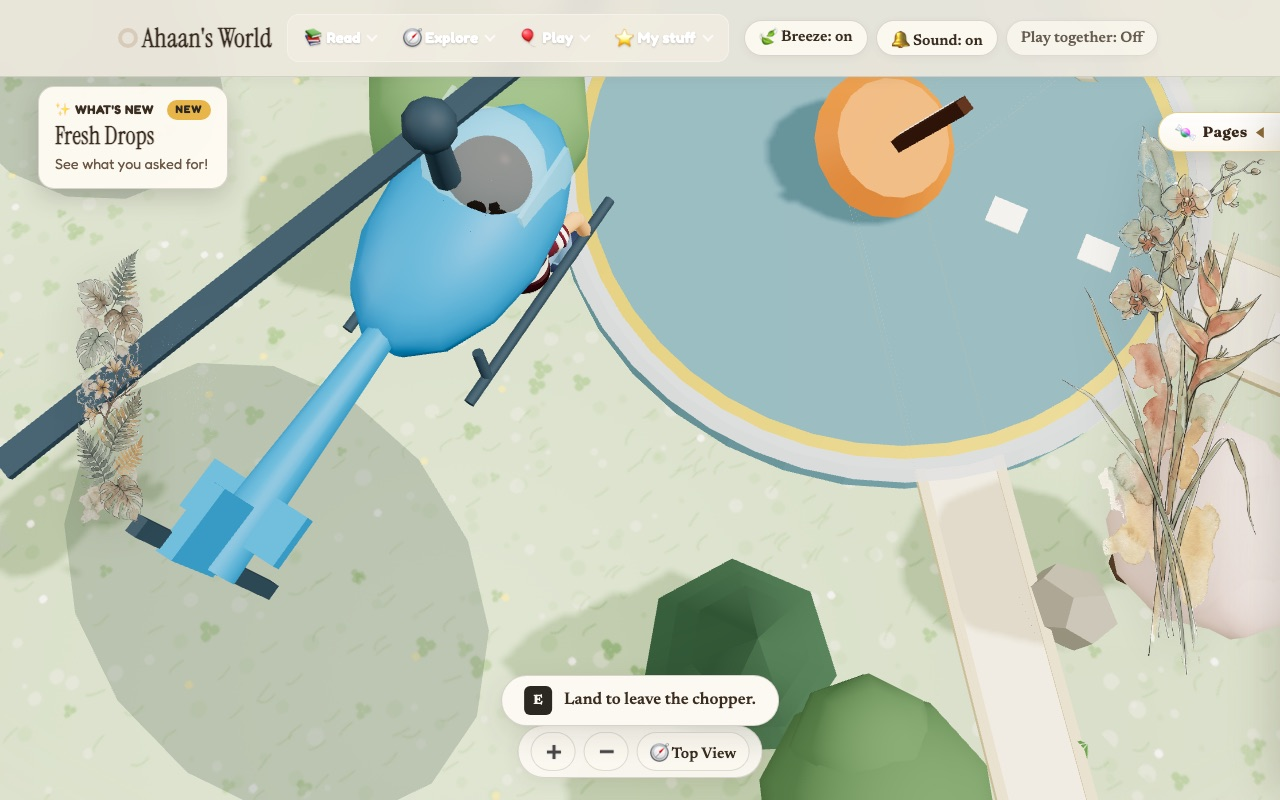
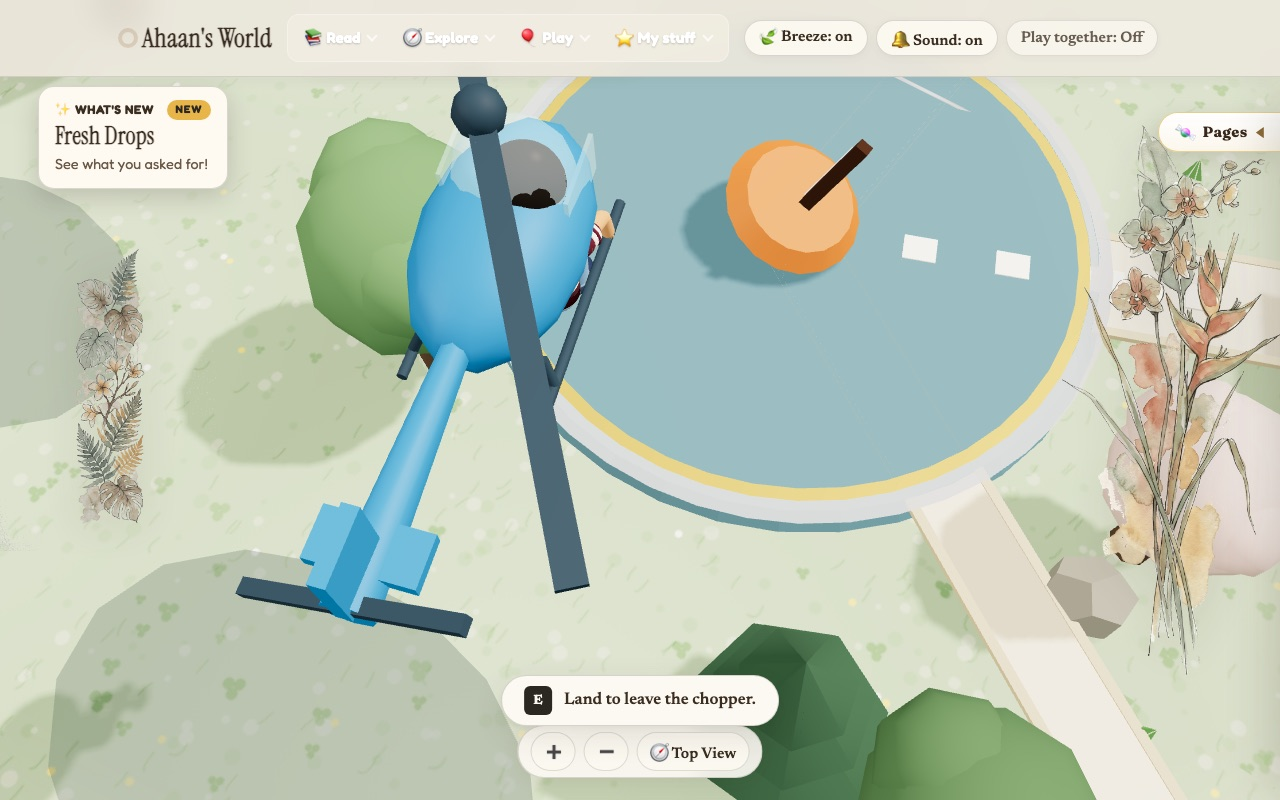
Record live chopper release screenshot

diff --git a/HANDOFF.md b/HANDOFF.md
@@ -31,9 +31,17 @@
 - `node --check` passed for `assets/park3d.js`, `assets/audio.js`, `assets/fresh-drops.js`, and both browser checks. `git diff --check` passed.
 - The desktop chopper route reached its clicked point at 10.5 m. The test checked the default height, arrow movement, and target cancellation.
 - The browser run passed target arrivals and manual cancellation on desktop and mobile for the bike, e-bike, and car. The quad check passed mount, target, arrow cancellation, manual ride, and dismount.
-- Live obstacle visuals, live screenshots, Fresh Drops publication, and Pages verification remain to verify.
-- The feature is not published. Local feature work remains in progress.
-- Feature commit: `5b01295` (`Add click-to-go park rides`). The branch is ready for merge and live verification.
+- Merged the feature into `main` as `1f054bb` (`Publish click-to-go park rides`).
+- Pushed `1f054bb` to `origin/main`.
+- GitHub Pages run `45013437262` completed with success.
+- The durable browser check passed on the live site at desktop 1280 × 800 and mobile 390 × 844.
+- Live checks passed chopper click-to-go, manual cancel, safe height, rotor start and stop, rider scale, ground vehicle routes, Fresh Drops images, and NEW badges.
+- Live browser errors: none. Screenshots: `/tmp/ahaan-chopper-click/`.
+- Replaced the Fresh Drops after image with the live target screenshot at `public/fresh-drops/2026-11-22-chopper-after.jpg`.
+- The live target screenshot shows the blue chopper near the target. The overhead camera partly hides Ahaan.
+- Ponytail full was used. It kept the change to the live screenshot and deployment record.
+- Follow-up screenshot commit and publish remain. Repeat the Pages and live Fresh Drops checks after that publish.
+- Feature commit: `5b01295` (`Add click-to-go park rides`). Verification record commit: `78ca9d0` (`Record click-to-go verification`).
 
 ## Brief queue — dispatched by Goku (Nov 20, 2026)
 
